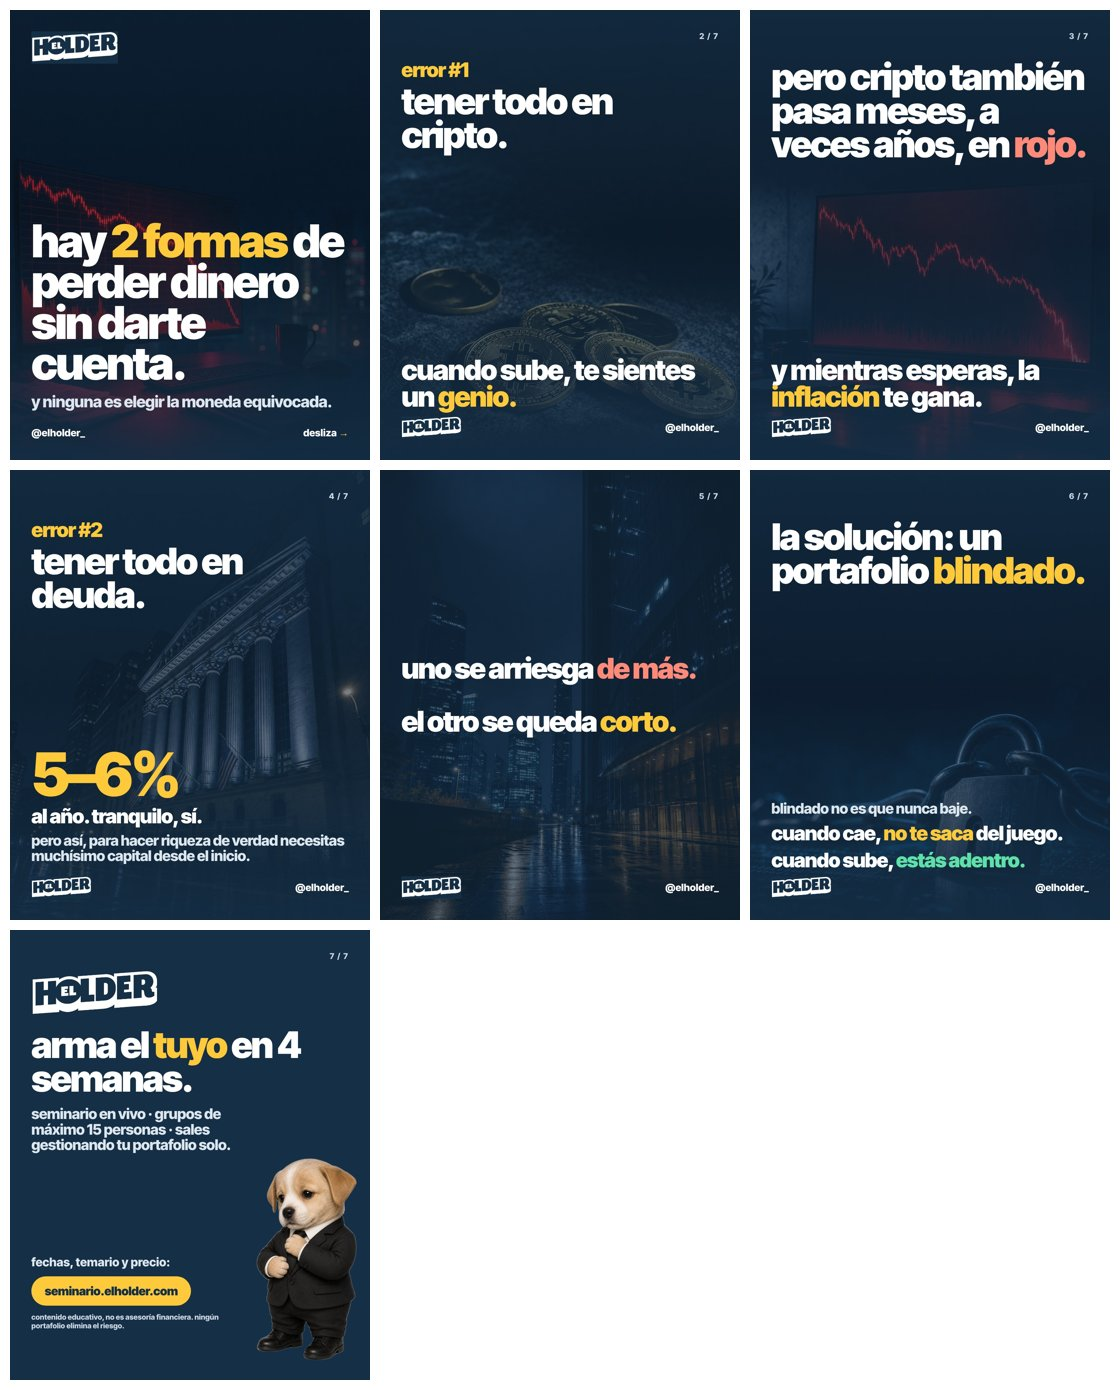
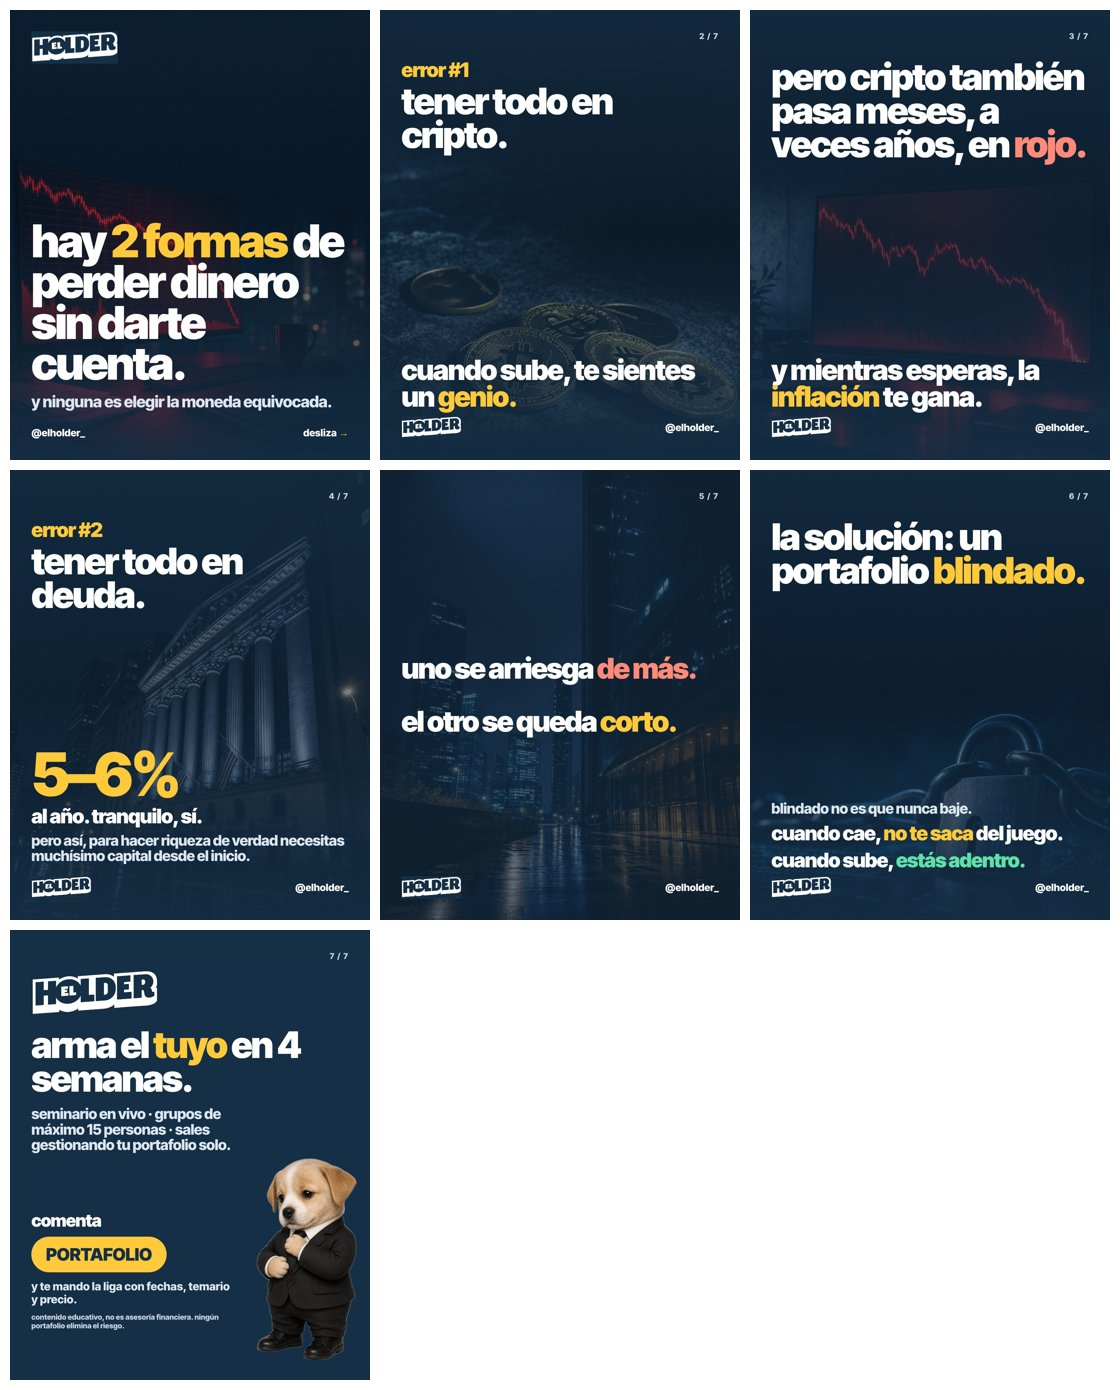
Portafolio blindado: CTA comenta PORTAFOLIO en slide 7
Claude-Session: https://claude.ai/code/session_011HtJt2a4sBpoKNENnst7wy

Changed region(s): [[0.0312, 0.8662, 0.1875, 0.959]]

diff --git a/carruseles/2026-10-28-portafolio-blindado/src/slide-07.html b/carruseles/2026-10-28-portafolio-blindado/src/slide-07.html
@@ -8,8 +8,9 @@
     <p class="t-s" style="max-width:620px">seminario en vivo · grupos de máximo 15 personas · sales gestionando tu portafolio solo.</p>
   </div>
   <div class="abajo angosto" style="width:620px;gap:22px;align-items:flex-start">
-    <p class="t-xs" style="font-size:36px">fechas, temario y precio:</p>
-    <span class="boton" style="font-size:36px">seminario.elholder.com</span>
+    <p class="t-m" style="font-size:52px">comenta</p>
+    <span class="boton" style="font-size:52px;padding:22px 44px">PORTAFOLIO</span>
+    <p class="t-xs" style="font-size:34px">y te mando la liga con fechas, temario y precio.</p>
     <p class="t-xs" style="font-size:22px;color:#C9D6E2">contenido educativo, no es asesoría financiera. ningún portafolio elimina el riesgo.</p>
   </div>
 </div></body></html>
